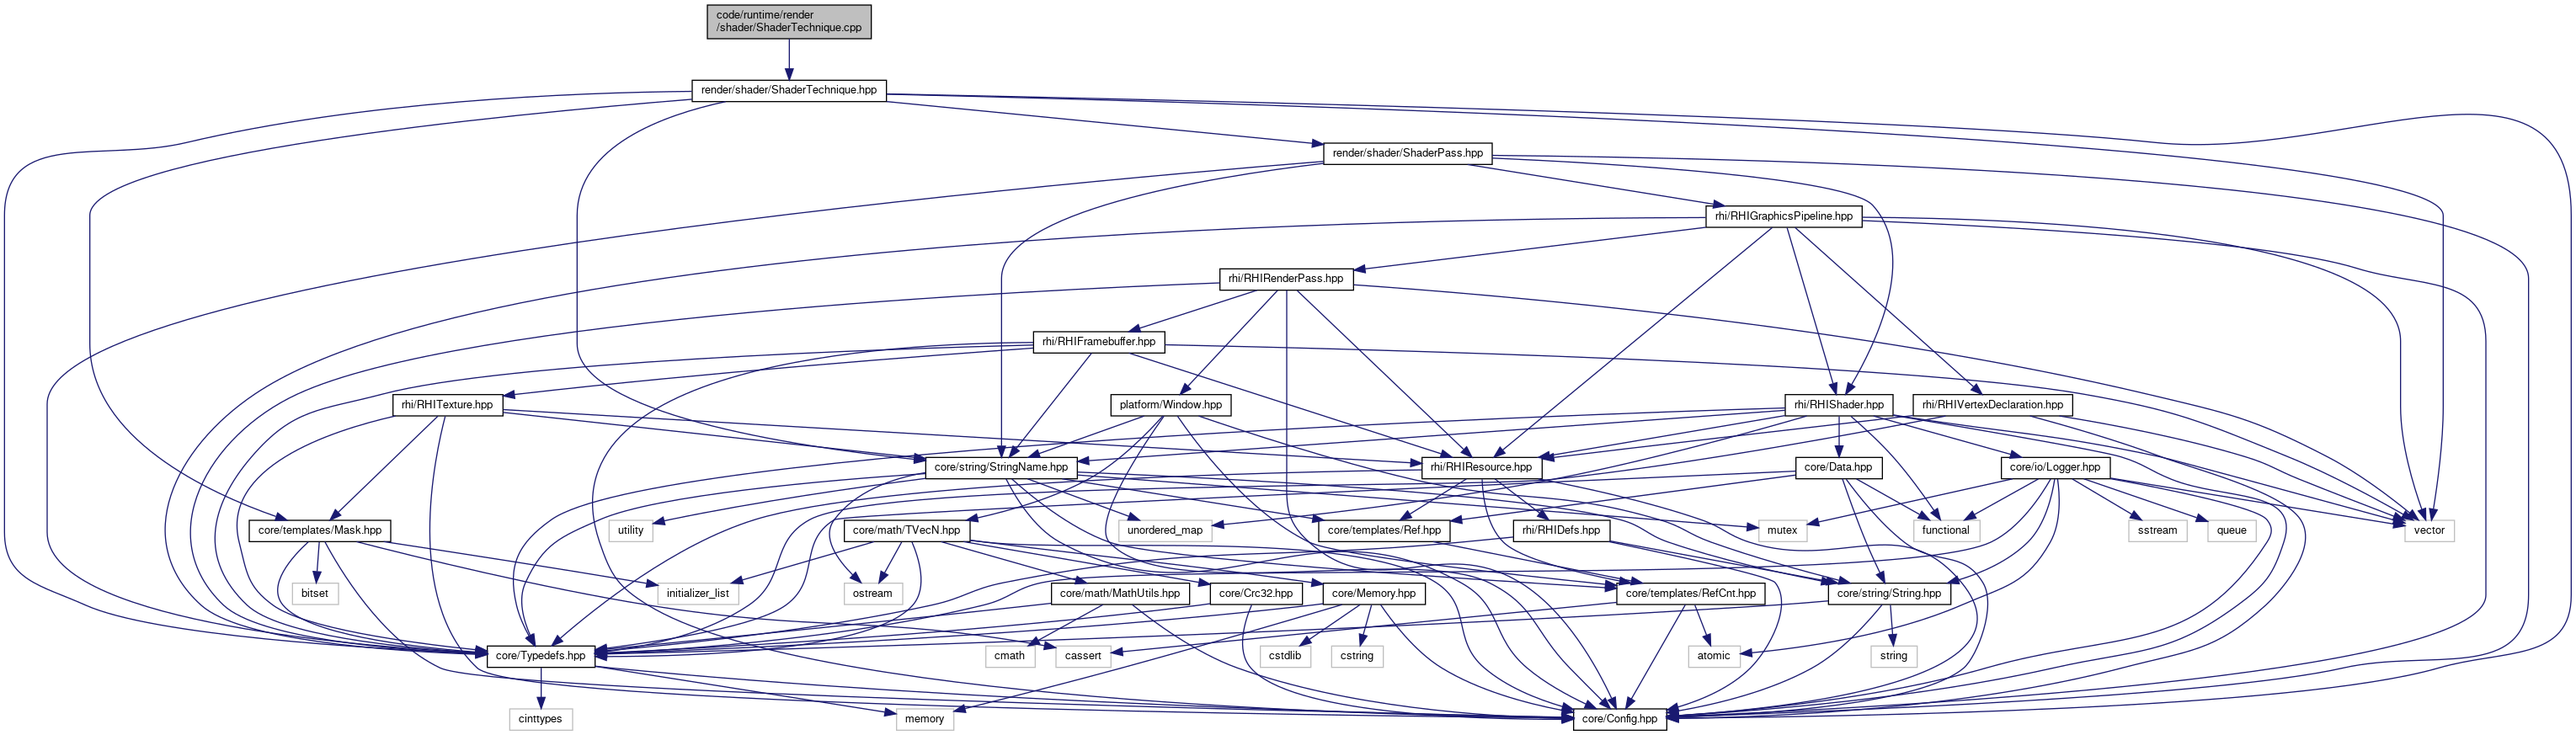
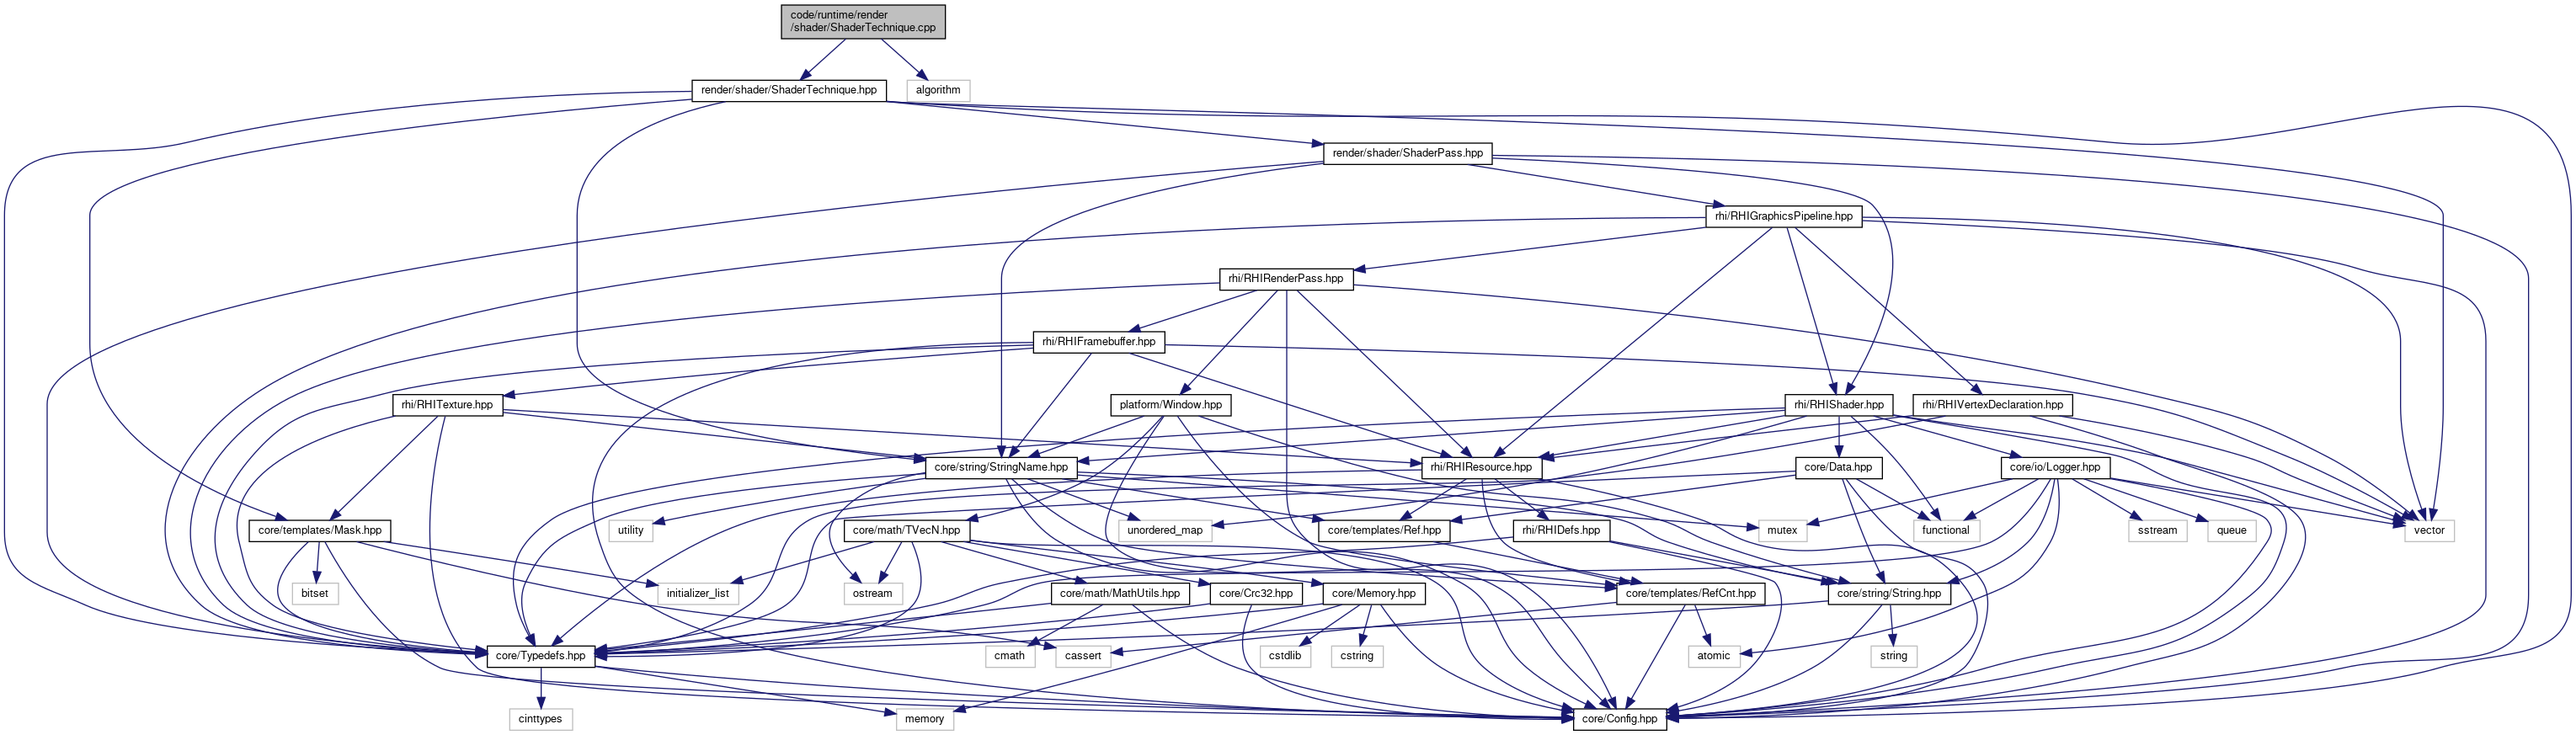
deploy: 69601cccca19bbf99d22c76a058bf17336b64e80

diff --git a/ShaderTechnique_8hpp_source.html b/ShaderTechnique_8hpp_source.html
@@ -170,24 +170,24 @@ $(function() {
 <div class="ttc" id="aclassShaderTechniqueTag_html"><div class="ttname"><a href="classShaderTechniqueTag.html">ShaderTechniqueTag</a></div><div class="ttdoc">Technique tags used to select techniques.</div></div>
 <div class="ttc" id="aclassShaderTechniqueTags_html"><div class="ttname"><a href="classShaderTechniqueTags.html">ShaderTechniqueTags</a></div><div class="ttdoc">Set of tags.</div></div>
 <div class="ttc" id="aclassShaderTechnique_html"><div class="ttname"><a href="classShaderTechnique.html">ShaderTechnique</a></div><div class="ttdoc">Represents particular approach to draw single object.</div><div class="ttdef"><b>Definition:</b> ShaderTechnique.hpp:64</div></div>
-<div class="ttc" id="aclassShaderTechnique_html_a05ced23f5cbf38de2abe3a98930b1764"><div class="ttname"><a href="classShaderTechnique.html#a05ced23f5cbf38de2abe3a98930b1764">ShaderTechnique::SetRHILanguage</a></div><div class="ttdeci">BRK_API void SetRHILanguage(RHIShaderLanguage language)</div><div class="ttdef"><b>Definition:</b> ShaderTechnique.cpp:44</div></div>
+<div class="ttc" id="aclassShaderTechnique_html_a05ced23f5cbf38de2abe3a98930b1764"><div class="ttname"><a href="classShaderTechnique.html#a05ced23f5cbf38de2abe3a98930b1764">ShaderTechnique::SetRHILanguage</a></div><div class="ttdeci">BRK_API void SetRHILanguage(RHIShaderLanguage language)</div><div class="ttdef"><b>Definition:</b> ShaderTechnique.cpp:46</div></div>
 <div class="ttc" id="aclassShaderTechnique_html_a09a294a9a778e244acb1907211d98b2b"><div class="ttname"><a href="classShaderTechnique.html#a09a294a9a778e244acb1907211d98b2b">ShaderTechnique::GetShader</a></div><div class="ttdeci">BRK_API class Shader * GetShader() const</div><div class="ttdef"><b>Definition:</b> ShaderTechnique.hpp:107</div></div>
 <div class="ttc" id="aclassShaderTechnique_html_a1b24bb478e57583ac659c2e93d29b549"><div class="ttname"><a href="classShaderTechnique.html#a1b24bb478e57583ac659c2e93d29b549">ShaderTechnique::GetRHIType</a></div><div class="ttdeci">BRK_API RHIType GetRHIType() const</div><div class="ttdef"><b>Definition:</b> ShaderTechnique.hpp:101</div></div>
-<div class="ttc" id="aclassShaderTechnique_html_a430a9cfcd18628c0edc361c26398b08d"><div class="ttname"><a href="classShaderTechnique.html#a430a9cfcd18628c0edc361c26398b08d">ShaderTechnique::SetPasses</a></div><div class="ttdeci">BRK_API void SetPasses(std::vector&lt; Ref&lt; ShaderPass &gt;&gt; passes)</div><div class="ttdef"><b>Definition:</b> ShaderTechnique.cpp:48</div></div>
+<div class="ttc" id="aclassShaderTechnique_html_a430a9cfcd18628c0edc361c26398b08d"><div class="ttname"><a href="classShaderTechnique.html#a430a9cfcd18628c0edc361c26398b08d">ShaderTechnique::SetPasses</a></div><div class="ttdeci">BRK_API void SetPasses(std::vector&lt; Ref&lt; ShaderPass &gt;&gt; passes)</div><div class="ttdef"><b>Definition:</b> ShaderTechnique.cpp:50</div></div>
 <div class="ttc" id="aclassShaderTechnique_html_a47f27dd8d5a7628da6b49347d2fc5232"><div class="ttname"><a href="classShaderTechnique.html#a47f27dd8d5a7628da6b49347d2fc5232">ShaderTechnique::GetRHILanguage</a></div><div class="ttdeci">BRK_API RHIShaderLanguage GetRHILanguage() const</div><div class="ttdef"><b>Definition:</b> ShaderTechnique.hpp:103</div></div>
-<div class="ttc" id="aclassShaderTechnique_html_a4b9312222892471f60732670b7f25d19"><div class="ttname"><a href="classShaderTechnique.html#a4b9312222892471f60732670b7f25d19">ShaderTechnique::SetShader</a></div><div class="ttdeci">BRK_API void SetShader(class Shader *shader)</div><div class="ttdef"><b>Definition:</b> ShaderTechnique.cpp:53</div></div>
+<div class="ttc" id="aclassShaderTechnique_html_a4b9312222892471f60732670b7f25d19"><div class="ttname"><a href="classShaderTechnique.html#a4b9312222892471f60732670b7f25d19">ShaderTechnique::SetShader</a></div><div class="ttdeci">BRK_API void SetShader(class Shader *shader)</div><div class="ttdef"><b>Definition:</b> ShaderTechnique.cpp:55</div></div>
 <div class="ttc" id="aclassShaderTechnique_html_a5addb22d9faf9dbf267d8a8fe680cd91"><div class="ttname"><a href="classShaderTechnique.html#a5addb22d9faf9dbf267d8a8fe680cd91">ShaderTechnique::GetName</a></div><div class="ttdeci">BRK_API const StringName &amp; GetName() const</div><div class="ttdef"><b>Definition:</b> ShaderTechnique.hpp:97</div></div>
 <div class="ttc" id="aclassShaderTechnique_html_a6542959e4836bc1bfe262cc2852c5dd6"><div class="ttname"><a href="classShaderTechnique.html#a6542959e4836bc1bfe262cc2852c5dd6">ShaderTechnique::GetTags</a></div><div class="ttdeci">BRK_API const ShaderTechniqueTags &amp; GetTags() const</div><div class="ttdef"><b>Definition:</b> ShaderTechnique.hpp:99</div></div>
 <div class="ttc" id="aclassShaderTechnique_html_a6e7d3c21402309d8a7399485858d4b66"><div class="ttname"><a href="classShaderTechnique.html#a6e7d3c21402309d8a7399485858d4b66">ShaderTechnique::ShaderTechnique</a></div><div class="ttdeci">BRK_API ShaderTechnique()=default</div></div>
-<div class="ttc" id="aclassShaderTechnique_html_a7019d18e99b5faacada78114834e524b"><div class="ttname"><a href="classShaderTechnique.html#a7019d18e99b5faacada78114834e524b">ShaderTechnique::SetRHIType</a></div><div class="ttdeci">BRK_API void SetRHIType(RHIType rhiType)</div><div class="ttdef"><b>Definition:</b> ShaderTechnique.cpp:40</div></div>
-<div class="ttc" id="aclassShaderTechnique_html_a73b1a36614168a8737b7da0c611e1589"><div class="ttname"><a href="classShaderTechnique.html#a73b1a36614168a8737b7da0c611e1589">ShaderTechnique::IsCompiled</a></div><div class="ttdeci">BRK_API bool IsCompiled() const</div><div class="ttdef"><b>Definition:</b> ShaderTechnique.cpp:62</div></div>
-<div class="ttc" id="aclassShaderTechnique_html_a74e2e458cd28980157764311ed26d514"><div class="ttname"><a href="classShaderTechnique.html#a74e2e458cd28980157764311ed26d514">ShaderTechnique::SetName</a></div><div class="ttdeci">BRK_API void SetName(StringName name)</div><div class="ttdef"><b>Definition:</b> ShaderTechnique.cpp:32</div></div>
+<div class="ttc" id="aclassShaderTechnique_html_a7019d18e99b5faacada78114834e524b"><div class="ttname"><a href="classShaderTechnique.html#a7019d18e99b5faacada78114834e524b">ShaderTechnique::SetRHIType</a></div><div class="ttdeci">BRK_API void SetRHIType(RHIType rhiType)</div><div class="ttdef"><b>Definition:</b> ShaderTechnique.cpp:42</div></div>
+<div class="ttc" id="aclassShaderTechnique_html_a73b1a36614168a8737b7da0c611e1589"><div class="ttname"><a href="classShaderTechnique.html#a73b1a36614168a8737b7da0c611e1589">ShaderTechnique::IsCompiled</a></div><div class="ttdeci">BRK_API bool IsCompiled() const</div><div class="ttdef"><b>Definition:</b> ShaderTechnique.cpp:64</div></div>
+<div class="ttc" id="aclassShaderTechnique_html_a74e2e458cd28980157764311ed26d514"><div class="ttname"><a href="classShaderTechnique.html#a74e2e458cd28980157764311ed26d514">ShaderTechnique::SetName</a></div><div class="ttdeci">BRK_API void SetName(StringName name)</div><div class="ttdef"><b>Definition:</b> ShaderTechnique.cpp:34</div></div>
 <div class="ttc" id="aclassShaderTechnique_html_a758e7b81e0ce91e60789e23df2a391d4"><div class="ttname"><a href="classShaderTechnique.html#a758e7b81e0ce91e60789e23df2a391d4">ShaderTechnique::~ShaderTechnique</a></div><div class="ttdeci">BRK_API ~ShaderTechnique() override=default</div></div>
-<div class="ttc" id="aclassShaderTechnique_html_a829bd44686c879caba70a52150a7cd9e"><div class="ttname"><a href="classShaderTechnique.html#a829bd44686c879caba70a52150a7cd9e">ShaderTechnique::FillPipelineDesc</a></div><div class="ttdeci">BRK_API void FillPipelineDesc(RHIGraphicsPipelineDesc &amp;desc, uint32 passIdx) const</div><div class="ttdef"><b>Definition:</b> ShaderTechnique.cpp:57</div></div>
+<div class="ttc" id="aclassShaderTechnique_html_a829bd44686c879caba70a52150a7cd9e"><div class="ttname"><a href="classShaderTechnique.html#a829bd44686c879caba70a52150a7cd9e">ShaderTechnique::FillPipelineDesc</a></div><div class="ttdeci">BRK_API void FillPipelineDesc(RHIGraphicsPipelineDesc &amp;desc, uint32 passIdx) const</div><div class="ttdef"><b>Definition:</b> ShaderTechnique.cpp:59</div></div>
 <div class="ttc" id="aclassShaderTechnique_html_a9e680678bc746616cbcb91eb4f2d35ed"><div class="ttname"><a href="classShaderTechnique.html#a9e680678bc746616cbcb91eb4f2d35ed">ShaderTechnique::GetPasses</a></div><div class="ttdeci">BRK_API const std::vector&lt; Ref&lt; ShaderPass &gt; &gt; &amp; GetPasses() const</div><div class="ttdef"><b>Definition:</b> ShaderTechnique.hpp:105</div></div>
-<div class="ttc" id="aclassShaderTechnique_html_ad0914caf37bf4d9c417945b7b2164441"><div class="ttname"><a href="classShaderTechnique.html#ad0914caf37bf4d9c417945b7b2164441">ShaderTechnique::GetPass</a></div><div class="ttdeci">BRK_API Ref&lt; const ShaderPass &gt; GetPass(const StringName &amp;name) const</div><div class="ttdef"><b>Definition:</b> ShaderTechnique.cpp:72</div></div>
+<div class="ttc" id="aclassShaderTechnique_html_ad0914caf37bf4d9c417945b7b2164441"><div class="ttname"><a href="classShaderTechnique.html#ad0914caf37bf4d9c417945b7b2164441">ShaderTechnique::GetPass</a></div><div class="ttdeci">BRK_API Ref&lt; const ShaderPass &gt; GetPass(const StringName &amp;name) const</div><div class="ttdef"><b>Definition:</b> ShaderTechnique.cpp:74</div></div>
 <div class="ttc" id="aclassShaderTechnique_html_ad1f9584acb6684dd43969bd5036e9bfc"><div class="ttname"><a href="classShaderTechnique.html#ad1f9584acb6684dd43969bd5036e9bfc">ShaderTechnique::GetPassesCount</a></div><div class="ttdeci">BRK_API size_t GetPassesCount() const</div><div class="ttdef"><b>Definition:</b> ShaderTechnique.hpp:94</div></div>
-<div class="ttc" id="aclassShaderTechnique_html_af6e3dbe4d99a3d30803c6af52fcac1b5"><div class="ttname"><a href="classShaderTechnique.html#af6e3dbe4d99a3d30803c6af52fcac1b5">ShaderTechnique::SetTags</a></div><div class="ttdeci">BRK_API void SetTags(const ShaderTechniqueTags &amp;tags)</div><div class="ttdef"><b>Definition:</b> ShaderTechnique.cpp:36</div></div>
+<div class="ttc" id="aclassShaderTechnique_html_af6e3dbe4d99a3d30803c6af52fcac1b5"><div class="ttname"><a href="classShaderTechnique.html#af6e3dbe4d99a3d30803c6af52fcac1b5">ShaderTechnique::SetTags</a></div><div class="ttdeci">BRK_API void SetTags(const ShaderTechniqueTags &amp;tags)</div><div class="ttdef"><b>Definition:</b> ShaderTechnique.cpp:38</div></div>
 <div class="ttc" id="aclassShader_html"><div class="ttname"><a href="classShader.html">Shader</a></div><div class="ttdoc">Defines complete rendering flow for the object.</div><div class="ttdef"><b>Definition:</b> Shader.hpp:84</div></div>
 <div class="ttc" id="aclassStringName_html"><div class="ttname"><a href="classStringName.html">StringName</a></div><div class="ttdoc">Cached shared utf-8 string id.</div><div class="ttdef"><b>Definition:</b> StringName.hpp:61</div></div>
 <div class="ttc" id="agroup__rhi_html_ga8d18b71de2f298a7b482d3f9c0d16437"><div class="ttname"><a href="group__rhi.html#ga8d18b71de2f298a7b482d3f9c0d16437">RHIType</a></div><div class="ttdeci">RHIType</div><div class="ttdef"><b>Definition:</b> RHIDefs.hpp:43</div></div>

diff --git a/UtilsGLSL_8hpp_source.html b/UtilsGLSL_8hpp_source.html
@@ -157,7 +157,7 @@ $(function() {
 <div class="line"><a name="l00095"></a><span class="lineno">   95</span>&#160;        stream &lt;&lt; <span class="stringliteral">&quot;//&lt;-- inserted generated uniform params --&gt;//\n&quot;</span>;</div>
 <div class="line"><a name="l00096"></a><span class="lineno">   96</span>&#160;    }</div>
 <div class="line"><a name="l00097"></a><span class="lineno">   97</span>&#160; </div>
-<div class="line"><a name="l00098"></a><span class="lineno"><a class="line" href="classUtilsGLSL.html#a18f93e31983cfb7b3172f9f93eabdcdc">   98</a></span>&#160;    <span class="keyword">static</span> <span class="keywordtype">void</span> <a class="code" href="classUtilsGLSL.html#a18f93e31983cfb7b3172f9f93eabdcdc">GenerateUserCode</a>(<span class="keyword">const</span> <a class="code" href="classString.html">String</a>&amp; code, std::stringstream &amp;stream) {</div>
+<div class="line"><a name="l00098"></a><span class="lineno"><a class="line" href="classUtilsGLSL.html#a18f93e31983cfb7b3172f9f93eabdcdc">   98</a></span>&#160;    <span class="keyword">static</span> <span class="keywordtype">void</span> <a class="code" href="classUtilsGLSL.html#a18f93e31983cfb7b3172f9f93eabdcdc">GenerateUserCode</a>(<span class="keyword">const</span> <a class="code" href="classString.html">String</a> &amp;code, std::stringstream &amp;stream) {</div>
 <div class="line"><a name="l00099"></a><span class="lineno">   99</span>&#160;        stream &lt;&lt; <span class="stringliteral">&quot;//&lt;-- inserted user code --&gt;//\n&quot;</span>;</div>
 <div class="line"><a name="l00100"></a><span class="lineno">  100</span>&#160;        stream &lt;&lt; code &lt;&lt; <span class="stringliteral">&quot;\n&quot;</span>;</div>
 <div class="line"><a name="l00101"></a><span class="lineno">  101</span>&#160;        stream &lt;&lt; <span class="stringliteral">&quot;//&lt;-- inserted user code --&gt;//\n&quot;</span>;</div>

diff --git a/RHIDefs_8hpp_source.html b/RHIDefs_8hpp_source.html
@@ -470,7 +470,7 @@ $(function() {
 <div class="line"><a name="l00452"></a><span class="lineno">  452</span>&#160;    }</div>
 <div class="line"><a name="l00453"></a><span class="lineno">  453</span>&#160;}</div>
 <div class="line"><a name="l00454"></a><span class="lineno">  454</span>&#160; </div>
-<div class="line"><a name="l00455"></a><span class="lineno"><a class="line" href="group__rhi.html#ga72e43728275ea3a6dfe7690c0e65fd68">  455</a></span>&#160;<span class="keyword">inline</span> <span class="keyword">const</span> <span class="keywordtype">char</span>* <a class="code" href="group__rhi.html#ga72e43728275ea3a6dfe7690c0e65fd68">RHIGetShaderParamIdGLSL</a>(<a class="code" href="group__rhi.html#ga153c28812a635991eb66c1c1038892eb">RHIShaderParamType</a> type) {</div>
+<div class="line"><a name="l00455"></a><span class="lineno"><a class="line" href="group__rhi.html#ga72e43728275ea3a6dfe7690c0e65fd68">  455</a></span>&#160;<span class="keyword">inline</span> <span class="keyword">const</span> <span class="keywordtype">char</span> *<a class="code" href="group__rhi.html#ga72e43728275ea3a6dfe7690c0e65fd68">RHIGetShaderParamIdGLSL</a>(<a class="code" href="group__rhi.html#ga153c28812a635991eb66c1c1038892eb">RHIShaderParamType</a> type) {</div>
 <div class="line"><a name="l00456"></a><span class="lineno">  456</span>&#160;    <span class="keywordflow">switch</span> (type) {</div>
 <div class="line"><a name="l00457"></a><span class="lineno">  457</span>&#160;        <span class="keywordflow">case</span> <a class="code" href="group__rhi.html#gga153c28812a635991eb66c1c1038892ebaa458b7abca3541d2a1c0aa7525e7d403">RHIShaderParamType::Sampler2d</a>:</div>
 <div class="line"><a name="l00458"></a><span class="lineno">  458</span>&#160;            <span class="keywordflow">return</span> <span class="stringliteral">&quot;sampler2D&quot;</span>;</div>

diff --git a/ShaderTechnique_8cpp.html b/ShaderTechnique_8cpp.html
@@ -70,13 +70,15 @@ $(function() {
 </div><!--header-->
 <div class="contents">
 <div class="textblock"><code>#include &lt;<a class="el" href="ShaderTechnique_8hpp_source.html">render/shader/ShaderTechnique.hpp</a>&gt;</code><br />
+<code>#include &lt;algorithm&gt;</code><br />
 </div><div class="textblock"><div class="dynheader">
 Include dependency graph for ShaderTechnique.cpp:</div>
 <div class="dyncontent">
 <div class="center"><img src="ShaderTechnique_8cpp__incl.png" border="0" usemap="#acode_2runtime_2render_2shader_2ShaderTechnique_8cpp" alt=""/></div>
 <map name="acode_2runtime_2render_2shader_2ShaderTechnique_8cpp" id="acode_2runtime_2render_2shader_2ShaderTechnique_8cpp">
-<area shape="rect" title=" " alt="" coords="840,5,1035,47"/>
+<area shape="rect" title=" " alt="" coords="928,5,1123,47"/>
 <area shape="rect" href="ShaderTechnique_8hpp.html" title=" " alt="" coords="822,95,1053,121"/>
+<area shape="rect" title=" " alt="" coords="1077,95,1152,121"/>
 <area shape="rect" href="Config_8hpp.html" title=" " alt="" coords="1869,841,1979,868"/>
 <area shape="rect" href="Typedefs_8hpp.html" title=" " alt="" coords="579,767,707,793"/>
 <area shape="rect" href="StringName_8hpp.html" title=" " alt="" coords="1099,543,1279,569"/>
